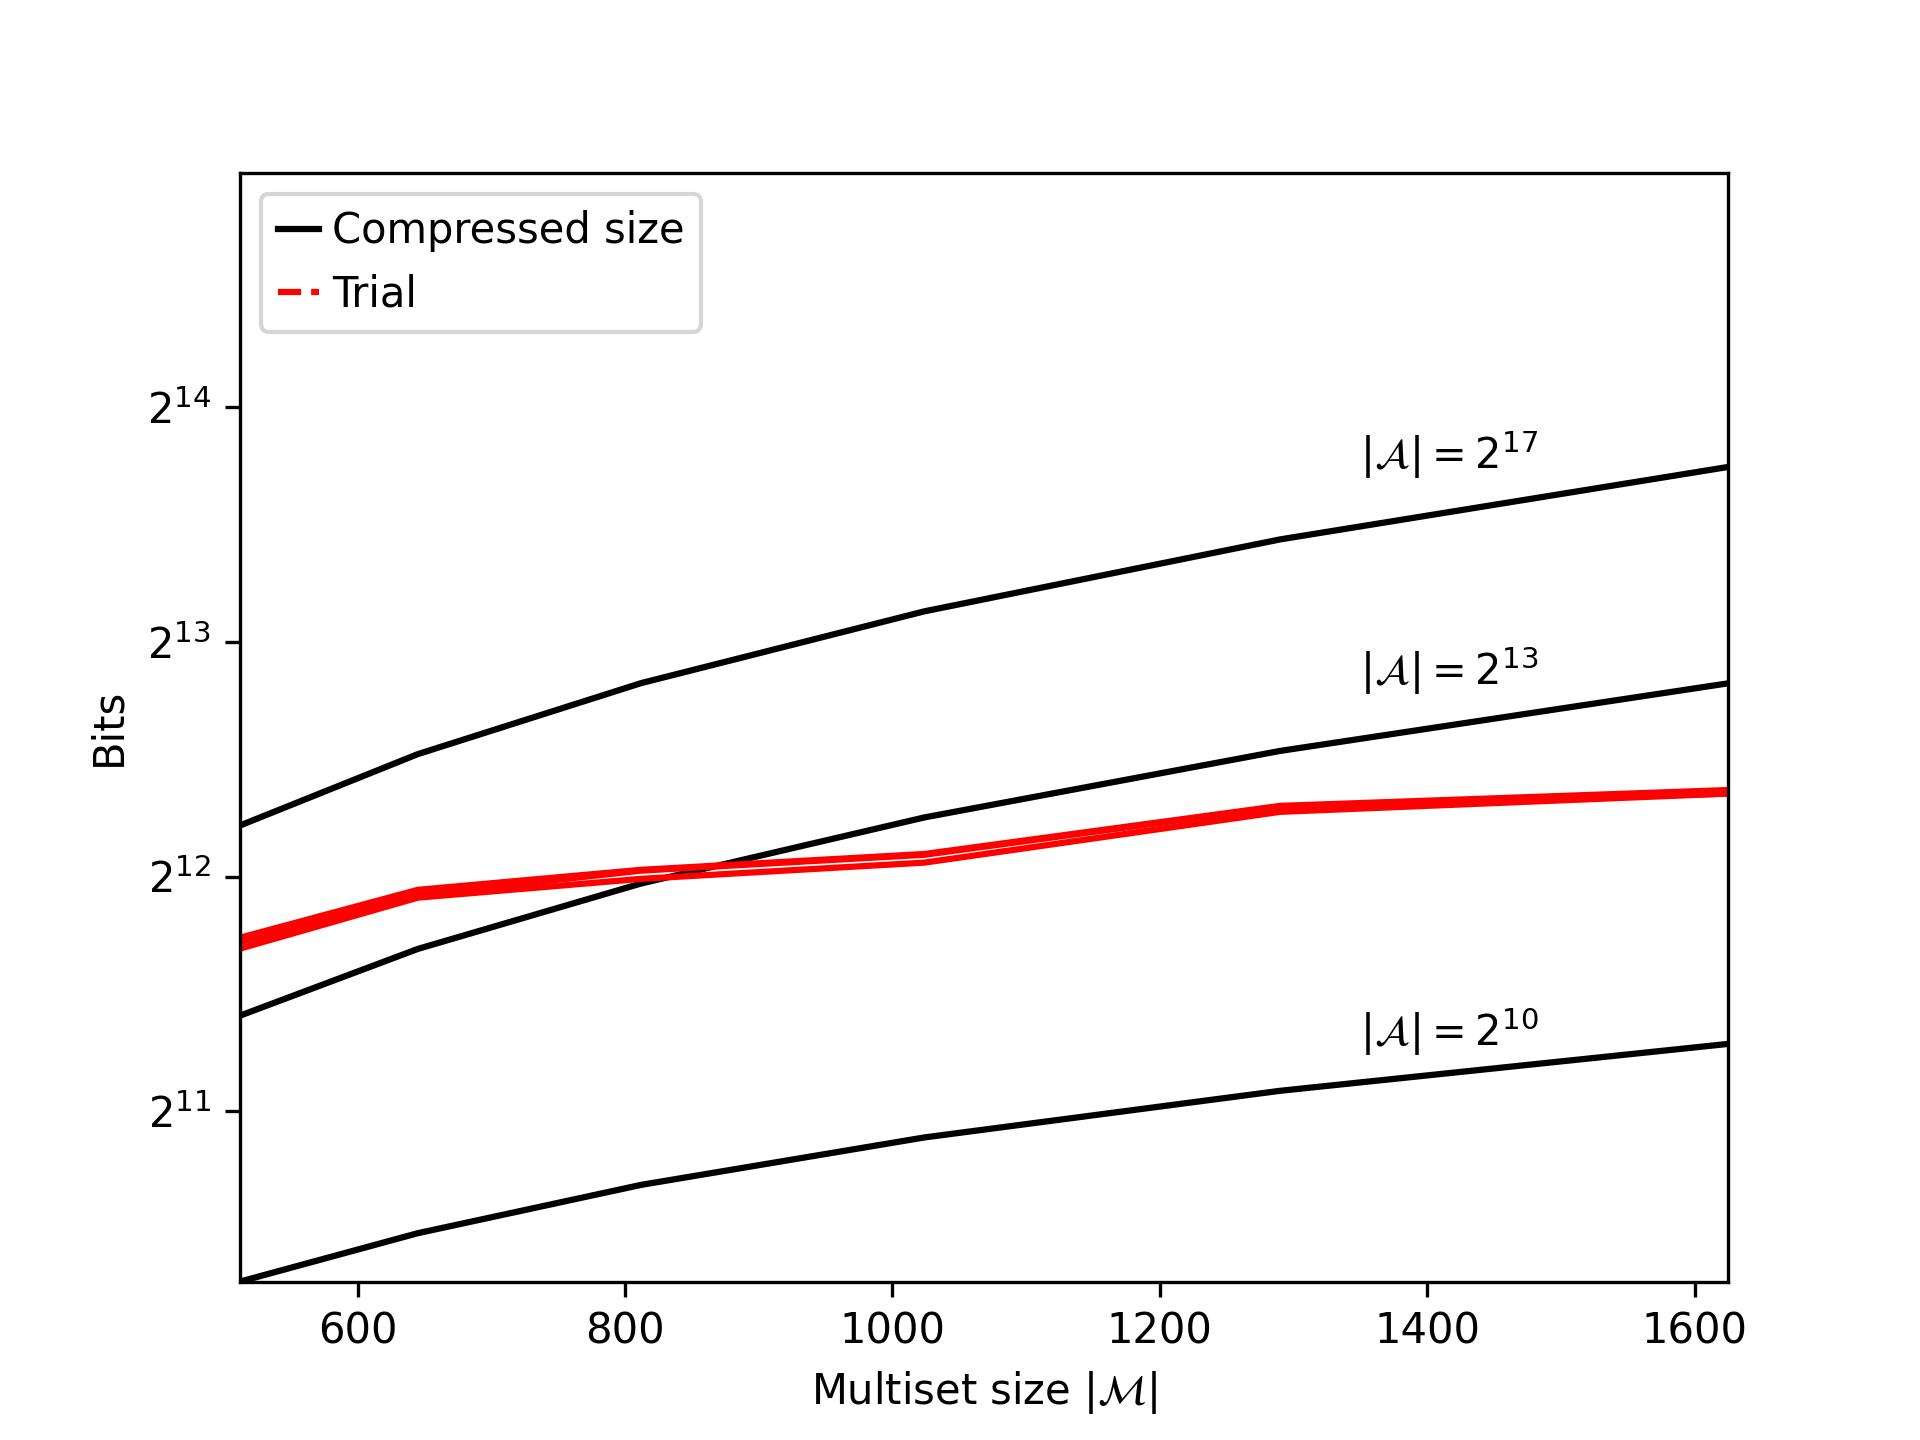
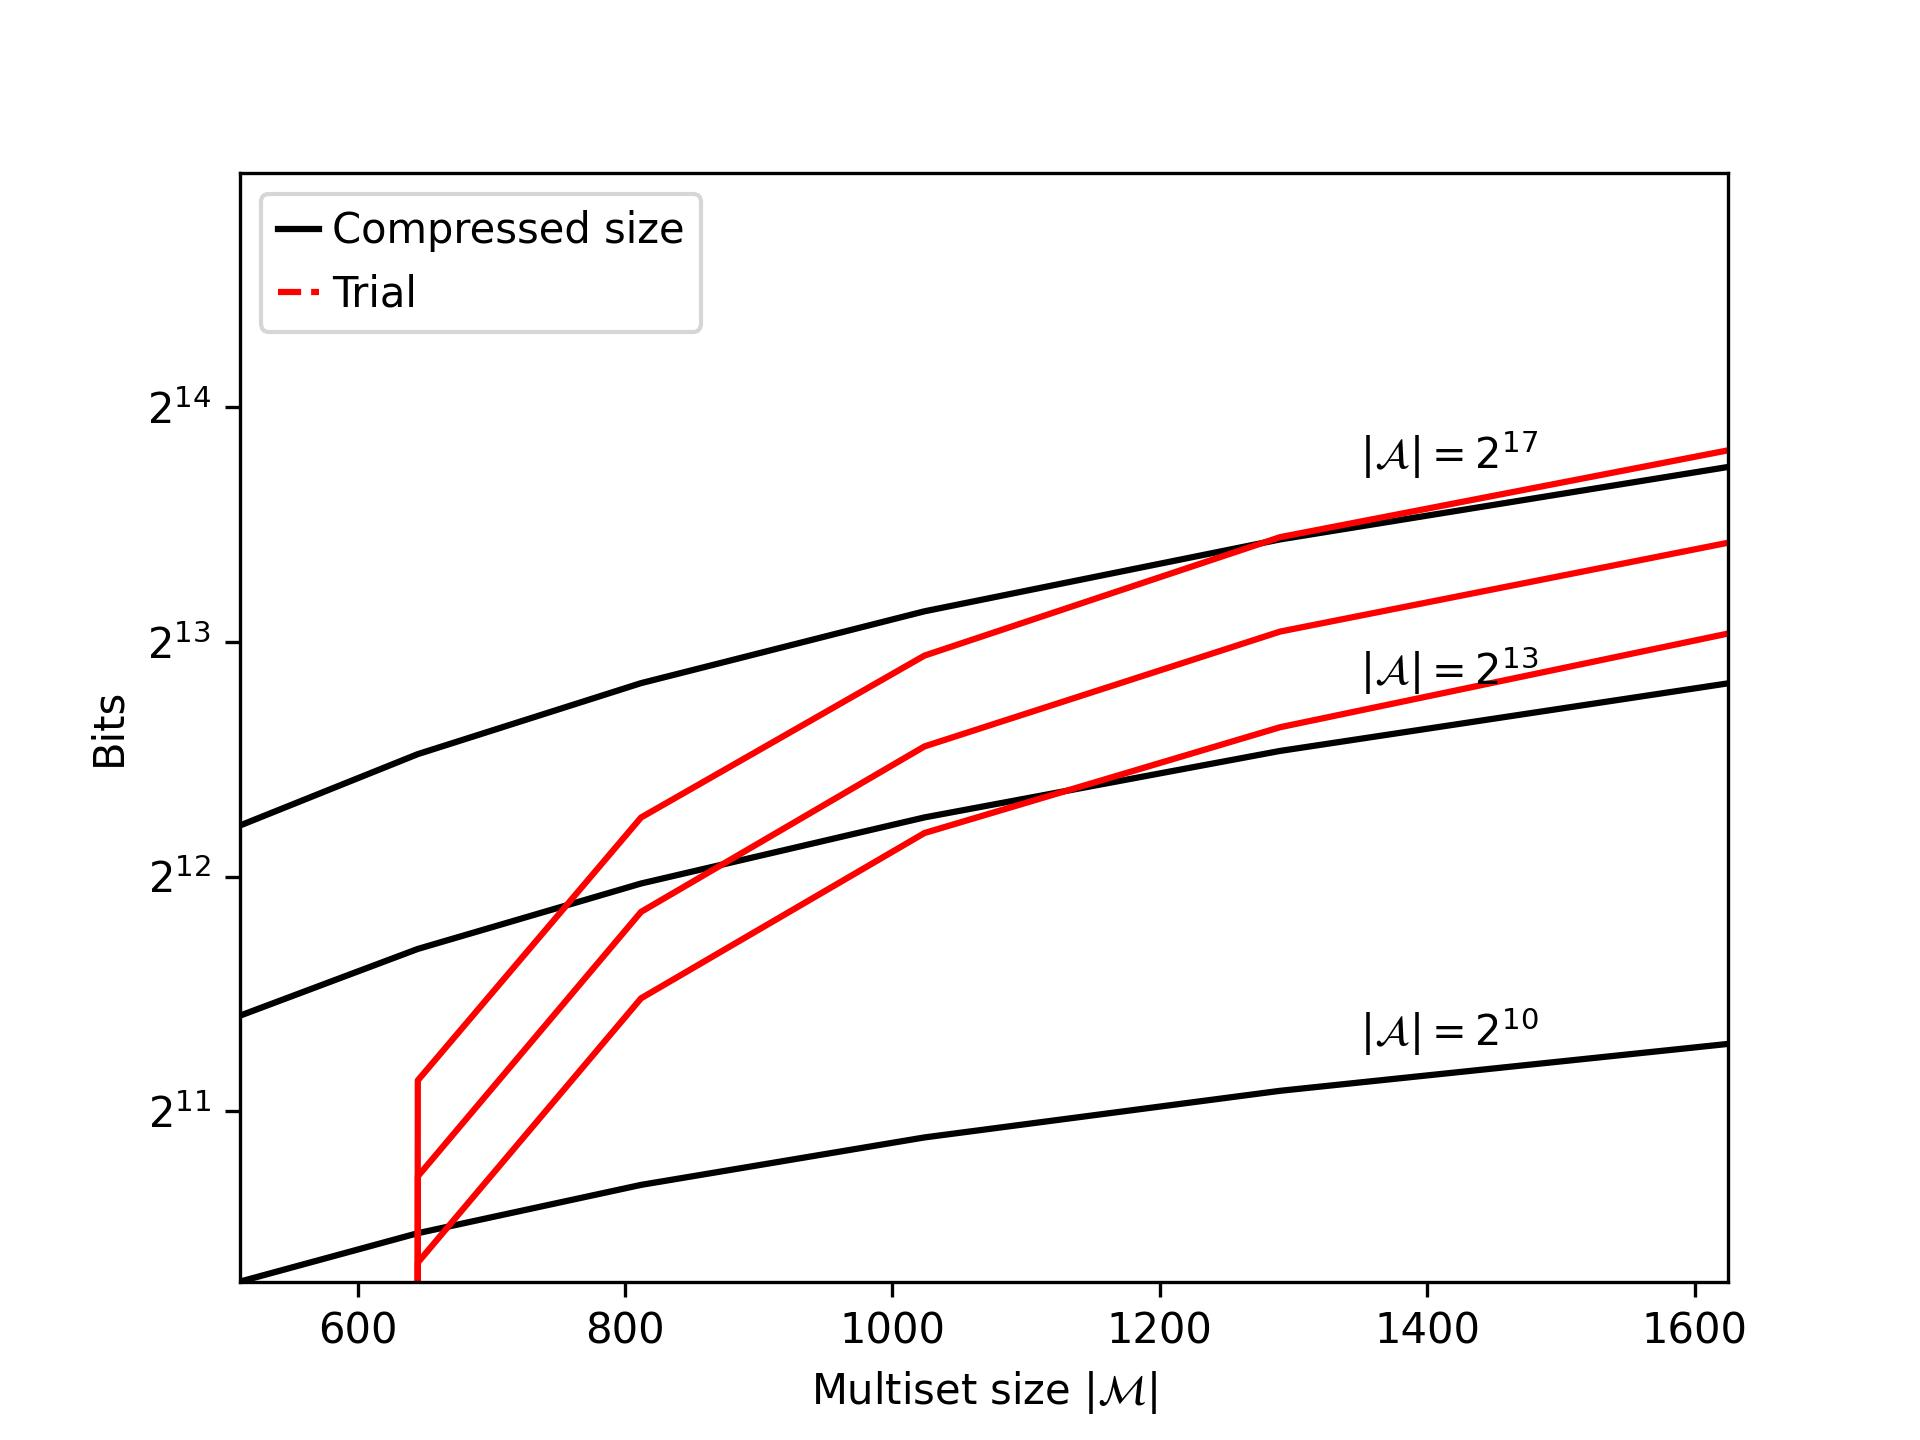
done

diff --git a/trial.py b/trial.py
@@ -32,7 +32,7 @@ class exp():
                 # multiset. This is required to show that the complexity will not scale
                 # with alphabet size.
                 alphabet_seen = np.random.choice(
-                        alphabet, size=512, p=source_probs, replace=False)
+                        alphabet, size=10, p=source_probs, replace=False)
 
                 source_probs_seen = source_probs[alphabet_seen]
                 source_probs_seen /= source_probs_seen.sum()
@@ -41,8 +41,7 @@ class exp():
                 # To do this, we start with alphabet_seen, and append seq_length-512
                 # symbols sampled from alphabet_seen.
                 sequence = np.r_[alphabet_seen, np.random.choice(
-                        alphabet_seen, size=seq_length+512, p=source_probs_seen)]
-
+                        alphabet_seen, size=seq_length-512, p=source_probs_seen)]
 
                 # The symbols will be encoded to the ANS state with a codec
                 # that has the exact source probabilities. Note that source_probs
@@ -87,7 +86,7 @@ class exp():
                     log2comp.append(temp)
                 log2comp = np.array(log2comp)
                 sumlogs = np.sum(log2comp)
-                bits_symbol=math.ceil(math.log2(seq_lens[j]))
+                bits_symbol=math.ceil(math.log2(alphabet_sizes[k]))
                 temp_list.append(sumlogs*bits_symbol)
             alphabet_op.append(temp_list)
         return alphabet_op

diff --git a/multiset_codec/codecs.py b/multiset_codec/codecs.py
@@ -72,10 +72,10 @@ def Multiset(symbol_codec: Codec) -> Codec:
             # 1) Sample, without replacement, a symbol using ANS decode.
             ans_state, symbol, multiset = \
                     swor_codec.decode(ans_state, multiset)
-            print("1  "+ str(ans_state) + " " + str(symbol) +" " +str(multiset))
+            
             # 2) Encode the selected symbol onto the same ANS state.
             (ans_state,) = symbol_codec.encode(ans_state, symbol)
-            print("3  "+ str(ans_state))
+            
         return (ans_state,)
 
     def decode(ans_state, multiset_size):
@@ -116,7 +116,7 @@ def SamplingWithoutReplacement() -> Codec:
         multiset, (start, freq), symbol = \
                 reverse_lookup_then_remove(multiset, cdf_value[0])
         ans_state = decode_(start, freq)
-        print("2  "+ str(ans_state))
+        
         return ans_state, symbol, multiset
 
     return substack(Codec(encode, decode), lambda head: head[:1])

diff --git a/experiments/toy_multisets.py b/experiments/toy_multisets.py
@@ -55,8 +55,7 @@ def run_single_experiment(seq_length, alphabet_size, seed):
 
     # Initialize ANS state
     ans_state = cs.base_message(shape=(1,))
-    print(ans_state)
-    exit(1)
+   
     # Encode multiset
     (ans_state,) = multiset_codec.encode(ans_state, multiset)
 
@@ -91,7 +90,7 @@ def run_single_experiment(seq_length, alphabet_size, seed):
         'duration': duration,
     }
 
-run_single_experiment(512,2048,13)
+# run_single_experiment(512,2048,13)
 def run_all_experiments(seed):
     '''Runs all experiments. This function is used by plots.py'''
 

diff --git a/multiset_codec/rans.py b/multiset_codec/rans.py
@@ -88,7 +88,7 @@ def decode(ans_state, precisions):
 
         # check which entries need renormalizing
         idxs = head < rans_l
-        print("idxs : {}\n".format(idxs))
+        # print("idxs : {}\n".format(idxs))
 
         # how many 32*n bits do we need from the tail?
         n = np.sum(idxs)

diff --git a/plots.py b/plots.py
@@ -186,5 +186,5 @@ ax.autoscale(tight=True)
 ax.set_ylim(top=2**15)
 
 # fig.savefig('figures/toy-multisets-rate.pdf')
-fig.savefig('figures/toy-multisets-rate.jpg', dpi=300)
+fig.savefig('figures/toy-multisets-rate_2.jpg', dpi=300)
 plt.show()
